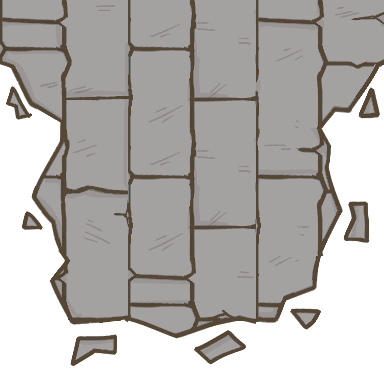
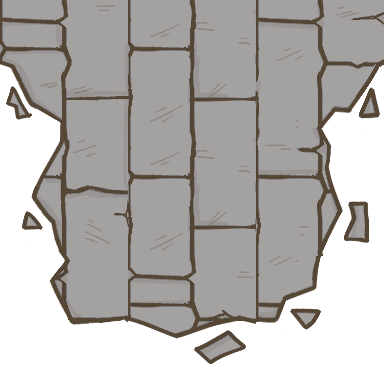
major sorting changes

Changed region(s): [[0.1875, 0.875, 0.3125, 0.9688]]

diff --git a/Assets/Resources/Main/LayerHelper.cs b/Assets/Resources/Main/LayerHelper.cs
@@ -1,43 +1,39 @@
-using System.Collections.Generic;
-using Unity.VisualScripting;
-using UnityEditor;
-using UnityEngine;
+/// <summary>
+/// THIS CLASS DOESN'T REALLY **DO** ANYTHING
+/// 
+/// It exists as a reminder for which sorting orders are populated by which assets
+/// </summary>
 public static class LayerHelper
 {
-    //This class mostly exists as a reminder for which sorting orders are populated by which assets
-
     //-----------------------------------
     //           FlOOR LAYER (effected by tile shadows)
     //-----------------------------------
 
-    //-------------BACKGROUND------------
     public const int FloorTileSortingOrder = -1;
     public const int WallTileSortingOrder = 0;
-
-
-
-
 
     //-----------------------------------
     //           DEFAULT LAYER (not effected by tile shadows)
     //-----------------------------------
 
-    //-------------BACKGROUND------------
+    public const int ShadowSortingOrder = -50; //Behind everything (shadows)
     public const int FloorObjSortingLayer = -2; //Power Pillows
     public const int PickupSortingOrder = -1; //Coins, Keys, Powers, Etc.
     public const int PortalSortingOrder = -1;
     public const int TrailSortingOrder = -1;
+    public const int ShopGachaponSortingOrder = -1;
+    public const int ChestSortingOrder = -1;
 
-    //-------------FOREGROUND------------
     public const int PlayerEnemyWorldObj = 0;
     public const int FloraSortingOrder = 0; //All ground decor
+    public const int CrucibleSortingOrder = 0;
     public const int SolidTileSortingOrder = 1;
+    public const int RestockMachineTopSortingOrder = 1; //Restock Machine (TOP)
     public const int SpecialHatSortingOrder = 2; //Bulb, Crown
     public const int WeaponSortingOrder = 3;
 
-
     //-----------------------------------
-    //       Player Sorting Group
+    //       Player Sorting Group (sublayers)
     //-----------------------------------
     public const int CapeBack = -3;
     public const int Skateboard = -2;
@@ -51,7 +47,6 @@ public static class LayerHelper
     //          DEFAULT LAYER (not yet integrated)
     //-----------------------------------
     public const int Projectile = 5;
-    public const int ShadowSortingOrder = -50;
     public const int InWorldUIElement = 10; //Boss/Skull health bars
     public const int ArbitraryCompendiumUISpriteMask = 30;
 }